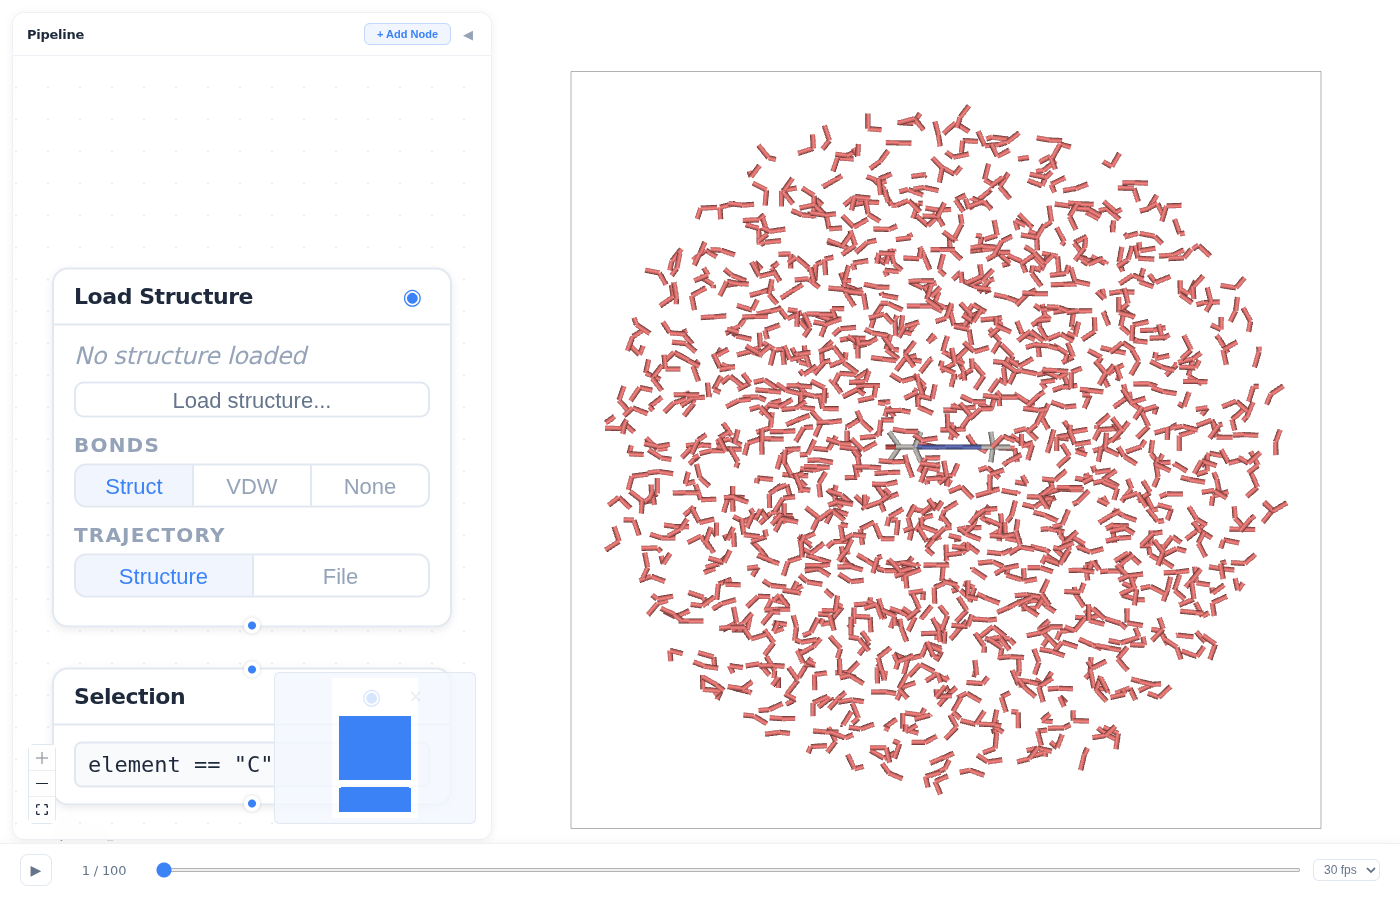
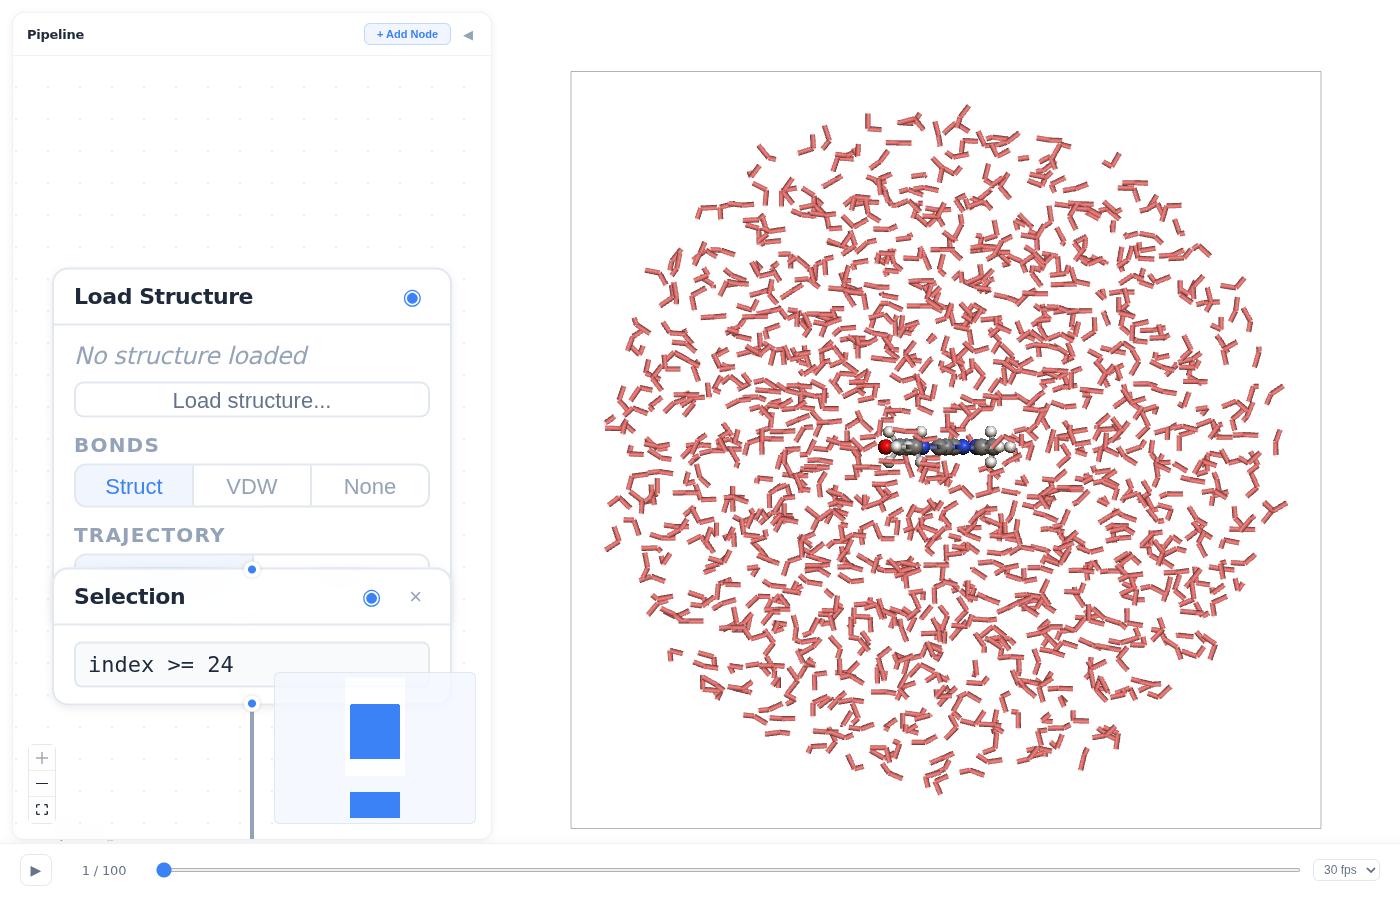
Fix shader int precision mismatch and update demo screenshot
Add `precision highp int` to both vertex and fragment shaders to fix
VALIDATE_STATUS error caused by differing default int precisions in
GLES 3.0. Update screenshot showing water molecules made semi-transparent
via Selection node with query `index >= 24`.

https://claude.ai/code/session_01MaFzAV4FqgD9YHqipn9ve7

diff --git a/src/renderer/shaders.ts b/src/renderer/shaders.ts
@@ -10,6 +10,7 @@
  */
 
 export const atomVertexShader = /* glsl */ `precision highp float;
+  precision highp int;
 
   // Three.js built-in uniforms (must declare explicitly for RawShaderMaterial)
   uniform mat4 modelViewMatrix;
@@ -55,6 +56,7 @@ export const atomVertexShader = /* glsl */ `precision highp float;
 `;
 
 export const atomFragmentShader = /* glsl */ `precision highp float;
+  precision highp int;
 
   in vec3 vColor;
   in vec2 vUv;
